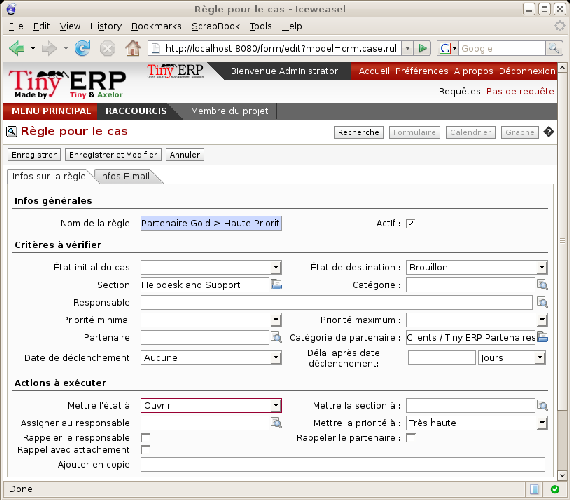
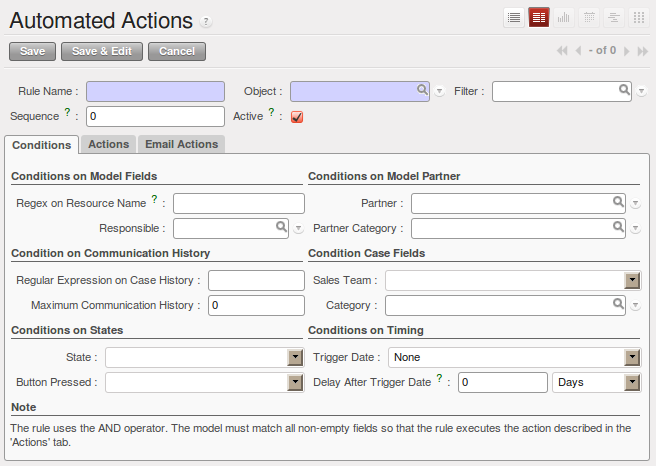
[IMP]: CRM : Autometic Action

diff --git a/2/2_5_CRM/2_5_CRM_case.rst b/2/2_5_CRM/2_5_CRM_case.rst
@@ -400,17 +400,18 @@ Using these rules you could:
 
 * send a reminder to the supplier if their response is delayed too long,
 
-* always mark a case as urgent if it's from a major client,
+* always mark a case as urgent if it is from a major client,
 
 * transfer the case to technical services if the request is about a technical fault.
 
-To define new rules use the menu :menuselection:`CRM & SRM --> Configuration --> Cases --> Rules`.
+To define new rules use the menu :menuselection:`Sales --> Configuration --> Automated Actions -->
+Automated Actions` and click on `New` button.
 
 .. figure::  images/crm_rule.png
    :scale: 50
    :align: center
 
-   *Screenshot of a rule*
+   *Form to enter the Automated Action*
 
 .. index::
    single: rule; case
@@ -442,7 +443,7 @@ are:
 
 	- reporting by date of the last action
 
-	- reporting by the length of time that it's been active.
+	- reporting by the length of time that it is been active.
 
 If you have defined several criteria Open ERP will apply the rule only if all of the criteria are
 valid.
@@ -495,7 +496,7 @@ the setup window. The following actions are included:
 			* :guilabel:`Remind responsible` : Yes.
 
 			After the rule has been defined, the expert will receive a copy of the whole discussion between
-			the Demo User and the customer for every case that remains unclosed after two days. He'll be able
+			the Demo User and the customer for every case that remains unclosed after two days. He will be able
 			to interact with the discussion to avoid lengthy delays on complex problems.
 
 			Some companies use several support levels. The first level is handled by the least qualified
@@ -504,9 +505,9 @@ the setup window. The following actions are included:
 
 			To systematically train employees at level 1 you can create the following rule: when the case has
 			been escalated they will continue to be copied on the progress of the case. If a user at support
-			level 1 can't handle a request he can escalate it to level 2. Then when an expert at level 2
+			level 1 can not handle a request he can escalate it to level 2. Then when an expert at level 2
 			answers the customer's request, the level 1 support person also receives the answer to the
-			problem that he couldn't originally handle. So your team can be educated automatically from
+			problem that he could not originally handle. So your team can be educated automatically from
 			listening in to the passage of live support calls.
 
 			Suppose that you supply two types of support contract to your customers: Gold and Normal. You can
@@ -548,12 +549,12 @@ the setup window. The following actions are included:
 			The system's statistics provide analyses about the number and the cost of quality problems from
 			different suppliers.
 
-			If certain suppliers don't offer the service quality that you expect you can automatically create
+			If certain suppliers do not offer the service quality that you expect you can automatically create
 			rules that:
 
 			* send a reminder to the supplier after a few days if the case still remains open
 
-			* remind the production manager to call the supplier and resolve the situation if the case hasn't
+			* remind the production manager to call the supplier and resolve the situation if the case has not
 			  been closed within a week
 
 			* select and qualify your suppliers on the basis of their quality of service
